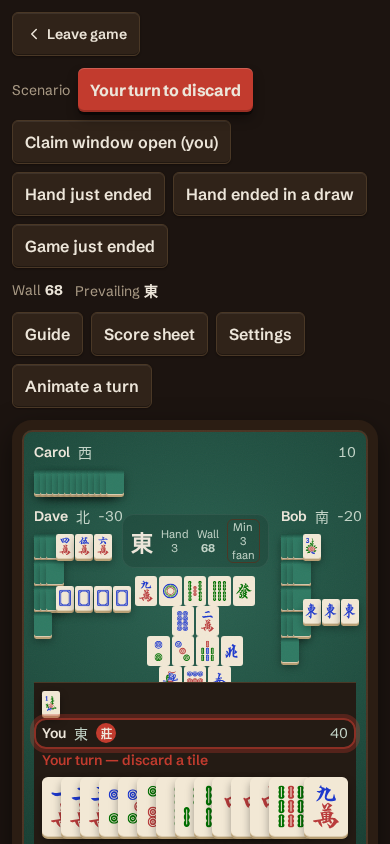
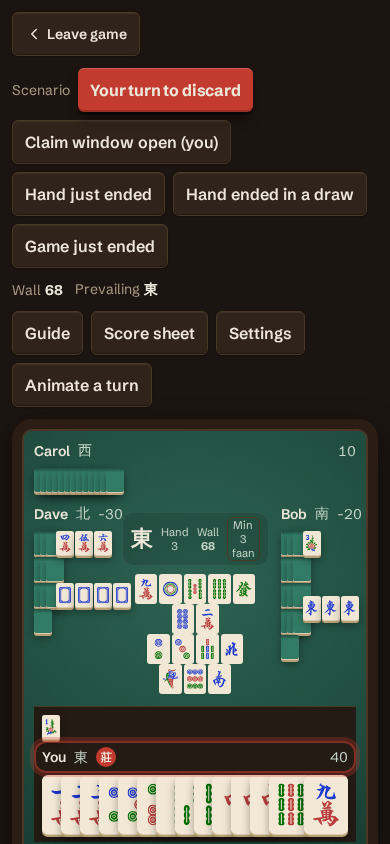
feat(web): drop the redundant your-turn discard prompt
Claude-Session: https://claude.ai/code/session_01UyFFucS5vj8vq3Yas3LvBu

diff --git a/web/src/lib/table/YourSeatRegion.svelte b/web/src/lib/table/YourSeatRegion.svelte
@@ -54,10 +54,6 @@
 		declareOptions: DeclareOption[];
 	} = $props();
 
-	// CenterHub carries the timer ring; this plain-text prompt is for your own seat, where a
-	// ring alone (on a seat you're always looking at) is easy to miss.
-	let isYourTurn = $derived(!spectating && seat.seat === turn && discardableTileIds.size > 0);
-
 	// two-step: the lifted tile is presentation-only state, never game truth. A second tap/Enter
 	// on it (same button, same onclick) discards; another tile moves the lift; outside-click/Esc clears it.
 	let liftedTileId = $state<number | null>(null);
@@ -171,10 +167,6 @@
 	/>
 
 	<div class="your-hand">
-		{#if isYourTurn || (isMock && seat.seat === turn && !spectating)}
-			<p class="turn-prompt">{m.yourSeatRegion_yourTurnPrompt()}</p>
-		{/if}
-
 		<!-- spectators get the opponents' tile size: no seat here is "yours" -->
 		{#if spectating && seat.concealedHand}
 			<div
@@ -272,14 +264,6 @@
 	.seat-region--self {
 		grid-area: self;
 		container-type: inline-size;
-	}
-
-	// echoes SeatPlate's halo colour so the prompt reads as the same signal, not a second one.
-	.turn-prompt {
-		margin: 0;
-		color: var(--color-accent);
-		font-weight: 600;
-		font-size: var(--font-size-sm);
 	}
 
 	.tile-row {

diff --git a/docs/frontend.md b/docs/frontend.md
@@ -133,9 +133,9 @@ wind glyph instead of "seat N" — wall count and prevailing wind moved to `Cent
 `::before` so the plate's own box — and the header's layout — never changes size between turns (the
 original whole-region outline is gone from `OpponentRegion`, which previously shifted against the
 felt grain; `.seat-region--turn` stays as a class-only hook so existing specs/e2e still find it,
-carrying no visual rule of its own). Your own seat gets the same plate plus a
-"Your turn — discard a tile" prompt above the hand, since a halo alone on the seat you're always
-looking at is easy to miss. Desktop/tablet (≥768px):
+carrying no visual rule of its own). Your own seat gets the same plate and no extra text prompt:
+the halo, the hub's timer ring and the raised/clickable hand tiles already say it's your turn.
+Desktop/tablet (≥768px):
 
 ```
   header: table/scenario · your wind · chrome toggles
